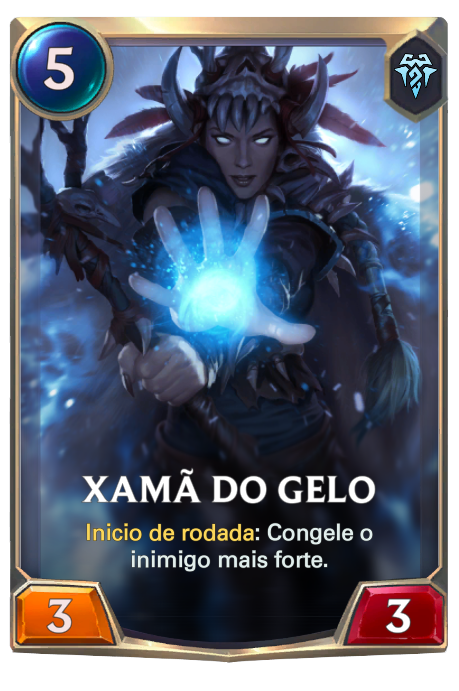
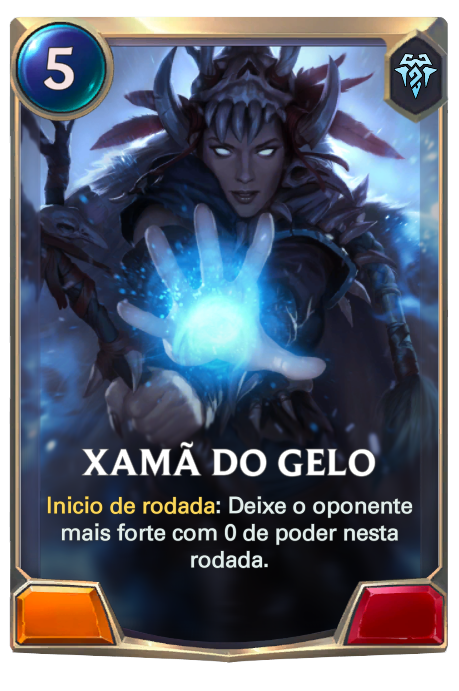
feito mais 2 spells.

diff --git a/LegendsOfRuneterra/src/menu/Menu.java b/LegendsOfRuneterra/src/menu/Menu.java
@@ -285,9 +285,17 @@ public class Menu {
                 effectCombateUmAUm, Region.DEMACIA, "/assets/demacia/combate-um-a-um.png");
         demacia_spells.add(combateUmAUm);
 
+        Effect[] effectXamaDoGelo = {new Effect(14, Trigger.ROUND_START)};
+        Follower xamaDoGelo = new Follower("Xamã do Gelo", "", 5, 3, 3, Region.FRELJORD, effectXamaDoGelo, "/assets/freljord/xama-do-gelo.png");
+        freljord_units.add(xamaDoGelo);
+
         Effect[] effectCongelar = { new Effect(9, Trigger.PLAY)};
         Spell congelar = new Spell("Congelar", "", 1, effectCongelar, Region.FRELJORD, "/assets/freljord/congelar.png");
         freljord_spells.add(congelar);
+
+        Effect[] effectAvalanche = {new Effect(15, 2, Trigger.PLAY)};
+        Spell avalanche = new Spell("Avalanche", "", 3, effectAvalanche, Region.FRELJORD, "/assets/freljord/avalanche.png");
+        freljord_spells.add(avalanche);
 
     }
 

diff --git a/LegendsOfRuneterra/src/card/Effect.java b/LegendsOfRuneterra/src/card/Effect.java
@@ -131,7 +131,7 @@ public class Effect {
                 myBoard.getCards().get(ally).strike(opponentBoard.getPlayer(), myBoard);
             }
 
-            case 7: // Um aliado atacante golpeia todos os oponentes defensores.
+            case 7: // Um aliado golpeia todos os oponentes.
             if (myBoard.getCards().isEmpty()){
                 System.out.println("Você não tem nenhum aliado.");
             }
@@ -197,6 +197,10 @@ public class Effect {
                 Champion champion = (Champion)self_follower;
                 champion.evolve();
             }
+
+            case 14: //Deixe o inimigo mais forte com 0 de poder nesta rodada.
+
+            case 15: //Dê n de dano a todas as unidades.
         }
         scan.close();
     }
